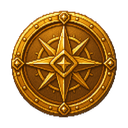
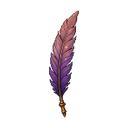
Ícone de adicionar nota/lista vira pena de escrever
Troca o compasso pela pena (glow suave, mesmo tratamento do Diário/Biblioteca).
Corrige também um problema de proporção no gerador de ícones: o padding era
calculado forçando um canvas quadrado antes do resize final, o que deixava
formas estreitas/altas (como a pena) minúsculas dentro do quadro. Agora o
padding respeita a proporção original de cada ícone nos dois eixos, e quem
encaixa no quadrado final é o resize com fit:contain — a pena preenche a
altura do ícone corretamente. Diário/Biblioteca foram regenerados com a
mesma correção (sem mudança visual perceptível, já eram quase quadrados).

diff --git a/scripts/process-icon-assets.js b/scripts/process-icon-assets.js
@@ -51,9 +51,13 @@ async function buildIcon(name, rimStyle = "hard") {
   const style = RIM_STYLES[rimStyle];
   const raw = await removeNeutralBackground(path.join(REF, `${name}-source.png`));
   const box = await contentBoundingBox(raw);
-  const side = Math.max(box.width, box.height);
-  const pad = Math.round(side * PADDING_RATIO);
-  const squareSide = side + pad * 2;
+
+  // Preserva a proporção original do conteúdo (não força um canvas quadrado) —
+  // ícones estreitos/altos (ex: a pena) ficariam minúsculos se fossem espremidos
+  // num quadrado antes do resize. O padding é relativo a cada eixo do próprio
+  // desenho; o .resize(fit:"contain") depois é que encaixa no quadrado final.
+  const padX = Math.round(box.width * PADDING_RATIO);
+  const padY = Math.round(box.height * PADDING_RATIO);
 
   // Materializa cada etapa em um buffer PNG antes de seguir — encadear
   // extract+extend+resize numa mesma pipeline (a partir de raw pixels)
@@ -61,10 +65,10 @@ async function buildIcon(name, rimStyle = "hard") {
   const extractedBuf = await sharp(raw.data, { raw: raw.info }).extract(box).png().toBuffer();
   const extendedBuf = await sharp(extractedBuf)
     .extend({
-      top: Math.floor((squareSide - box.height) / 2),
-      bottom: Math.ceil((squareSide - box.height) / 2),
-      left: Math.floor((squareSide - box.width) / 2),
-      right: Math.ceil((squareSide - box.width) / 2),
+      top: padY,
+      bottom: padY,
+      left: padX,
+      right: padX,
       background: { r: 0, g: 0, b: 0, alpha: 0 },
     })
     .png()
@@ -126,7 +130,7 @@ async function main() {
   require("fs").mkdirSync(OUT, { recursive: true });
   // icon-financas/icon-lembrete/icon-config/icon-guilda não são mais gerados —
   // a barra inferior agora usa tabbar-bg.png com os 5 ícones já desenhados nela.
-  await buildIcon("icon-add", "hard");
+  await buildIcon("icon-add", "glow");
   await buildIcon("icon-diario", "glow");
   await buildIcon("icon-biblioteca", "glow");
   await buildTabbarIntegratedArt();
